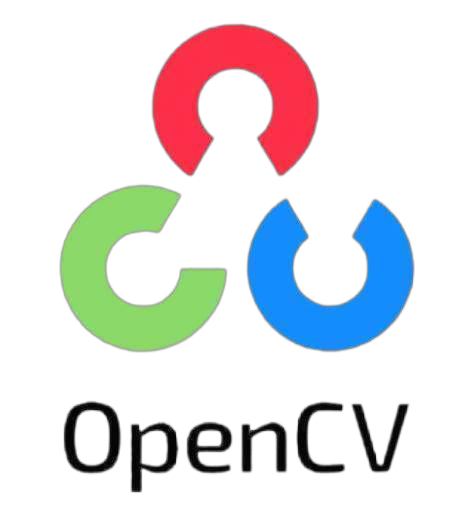
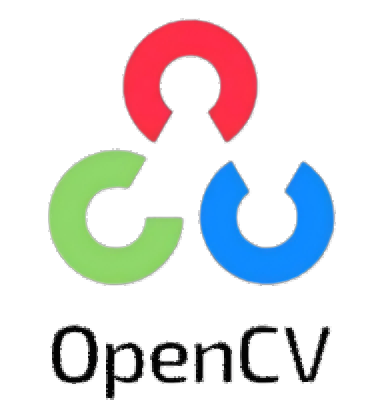
update: 修改关于我页面中的编译工具和算法框架的图标文件名

diff --git a/_pages/about.md b/_pages/about.md
@@ -55,7 +55,7 @@ Served as an Algorithm Engineer, independently completed 5 products from project
 
     <div style="background-color: #f3e5f5; padding: 15px; border-radius: 10px; flex: 1;">
         <strong>编译工具</strong><br>
-        <img src="images/Skills/qt.png" alt="Qt" style="height: 45px; margin: 5px; border-radius: 5px;">
+        <img src="images/Skills/qt1.png" alt="Qt" style="height: 45px; margin: 5px; border-radius: 5px;">
         <img src="images/Skills/vscode.svg" alt="Qt" style="height: 45px; margin: 5px; border-radius: 5px;">
         <img src="images/Skills/pycharm.png" alt="Qt" style="height: 45px; margin: 5px; border-radius: 5px;">
         <img src="images/Skills/android.svg" alt="Qt" style="height: 45px; width: 45px; margin: 5px; border-radius: 5px;">
@@ -64,7 +64,7 @@ Served as an Algorithm Engineer, independently completed 5 products from project
 
     <div style="background-color: #e8f5e9; padding: 15px; border-radius: 10px; flex: 1;">
         <strong>算法框架</strong><br>
-        <img src="images/Skills/opencv.png" alt="OpenCV" style="height: 45px; margin: 5px; border-radius: 5px;">
+        <img src="images/Skills/opencv1.png" alt="OpenCV" style="height: 45px; margin: 5px; border-radius: 5px;">
         <img src="images/Skills/pytorch.png" alt="PyTorch" style="height: 45px; margin: 5px; border-radius: 5px;">
         <img src="images/Skills/ros1.png" alt="ROS" style="height: 45px; margin: 5px; border-radius: 5px;">
     </div>
